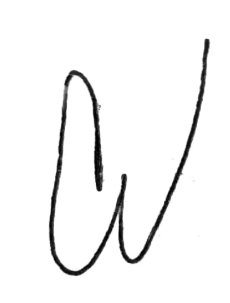
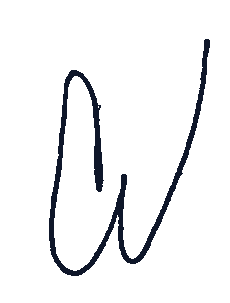
feat: firma manuscrita realista de Carlos Vega sobre linea en ODC sin etiquetas digitales

Changed region(s): [[0.213, 0.1188, 0.913, 0.9208]]

diff --git a/src/OrdenesCompra.jsx b/src/OrdenesCompra.jsx
@@ -2102,13 +2102,42 @@ const OrdenesCompra = ({ currentUser }) => {
     });
   };
 
-  // Cargar Imagen de Firma Digital Carlos Vega
+  // Cargar Imagen de Firma Carlos Vega con transparencia garantizada
   const cargarImagenFirmaCarlos = () => {
     return new Promise((resolve) => {
       const img = new Image();
       img.crossOrigin = "Anonymous";
       img.src = '/firma_carlos_vega.png';
-      img.onload = () => resolve(img);
+      img.onload = () => {
+        try {
+          const canvas = document.createElement('canvas');
+          canvas.width = img.naturalWidth || img.width;
+          canvas.height = img.naturalHeight || img.height;
+          const ctx = canvas.getContext('2d');
+          ctx.drawImage(img, 0, 0);
+          const imgData = ctx.getImageData(0, 0, canvas.width, canvas.height);
+          const data = imgData.data;
+          for (let i = 0; i < data.length; i += 4) {
+            const r = data[i];
+            const g = data[i + 1];
+            const b = data[i + 2];
+            if (r > 200 && g > 200 && b > 200) {
+              data[i + 3] = 0;
+            } else if (data[i + 3] > 0) {
+              data[i] = 15;
+              data[i + 1] = 23;
+              data[i + 2] = 42;
+            }
+          }
+          ctx.putImageData(imgData, 0, 0);
+          const transImg = new Image();
+          transImg.src = canvas.toDataURL('image/png');
+          transImg.onload = () => resolve(transImg);
+          transImg.onerror = () => resolve(img);
+        } catch {
+          resolve(img);
+        }
+      };
       img.onerror = () => resolve(null);
     });
   };
@@ -2463,69 +2492,55 @@ const OrdenesCompra = ({ currentUser }) => {
         doc.text(compradorNombre, marginX + sigW / 2, sigY + 15.8, { align: 'center' });
 
         // 2. Revisado y avalado por Ricardo Herrera
+        doc.setDrawColor(30, 58, 138);
         doc.rect(marginX + sigW, sigY, sigW, sigH);
         doc.setFont("helvetica", "bold");
         doc.setFontSize(7.2);
+        doc.setTextColor(30, 58, 138);
         doc.text("Revisado y avalado por (nombre y firma)", marginX + sigW + sigW / 2, sigY + 3.2, { align: 'center' });
         doc.setFont("helvetica", "normal");
         doc.setFontSize(6.2);
+        doc.setTextColor(71, 85, 105);
         doc.text("Gerente de Compras", marginX + sigW + sigW / 2, sigY + 6.0, { align: 'center' });
-
-        if (odcSeleccionada.ricardo_firma_digital_activa) {
-          doc.setFillColor(240, 253, 244);
-          doc.setDrawColor(22, 101, 52);
-          doc.roundedRect(marginX + sigW + 3, sigY + 7.5, sigW - 6, 9.2, 1, 1, 'FD');
-          doc.setFont("helvetica", "bold");
-          doc.setFontSize(5.6);
-          doc.setTextColor(4, 120, 87);
-          doc.text("AVALADO DIGITALMENTE", marginX + sigW + sigW / 2, sigY + 11.0, { align: 'center' });
-          doc.setFontSize(5.2);
-          doc.text("Ricardo Herrera (Gerente de Compras)", marginX + sigW + sigW / 2, sigY + 14.8, { align: 'center' });
-        } else {
-          doc.line(marginX + sigW + 6, sigY + 12.0, marginX + sigW * 2 - 6, sigY + 12.0);
-          doc.setFontSize(6.2);
-          doc.text("Ricardo Herrera (Gerente de Compras)", marginX + sigW + sigW / 2, sigY + 15.8, { align: 'center' });
-        }
+        doc.setDrawColor(0, 0, 0);
+        doc.line(marginX + sigW + 6, sigY + 12.0, marginX + sigW * 2 - 6, sigY + 12.0);
+        doc.setFont("helvetica", "bold");
+        doc.setFontSize(6.2);
+        doc.setTextColor(0, 0, 0);
+        doc.text("Ricardo Herrera (Gerente de Compras)", marginX + sigW + sigW / 2, sigY + 15.8, { align: 'center' });
 
         // 3. Autorizado por Carlos Vega
+        doc.setDrawColor(30, 58, 138);
         doc.rect(marginX + sigW * 2, sigY, sigW, sigH);
         doc.setFont("helvetica", "bold");
         doc.setFontSize(7.2);
+        doc.setTextColor(30, 58, 138);
         doc.text("Autorizado por (nombre y firma)", marginX + sigW * 2 + sigW / 2, sigY + 3.2, { align: 'center' });
         doc.setFont("helvetica", "normal");
         doc.setFontSize(6.2);
+        doc.setTextColor(71, 85, 105);
         doc.text("Personal Autorizado", marginX + sigW * 2 + sigW / 2, sigY + 6.0, { align: 'center' });
 
-        if (odcSeleccionada.carlos_firma_digital_activa) {
-          doc.setFillColor(240, 253, 244);
-          doc.setDrawColor(22, 101, 52);
-          doc.roundedRect(marginX + sigW * 2 + 3, sigY + 7.2, sigW - 6, 9.8, 1, 1, 'FD');
-          
-          if (firmaCarlosImg) {
-            try {
-              doc.addImage(firmaCarlosImg, 'PNG', marginX + sigW * 2 + (sigW / 2) - 3.5, sigY + 7.4, 7.0, 5.0);
-            } catch (errImg) {
-              console.warn("No se pudo insertar la imagen de firma en PDF:", errImg);
-            }
-            doc.setFont("helvetica", "bold");
-            doc.setFontSize(5.0);
-            doc.setTextColor(4, 120, 87);
-            doc.text("FIRMADO DIGITALMENTE", marginX + sigW * 2 + sigW / 2, sigY + 13.6, { align: 'center' });
-            doc.setFontSize(4.8);
-            doc.text("Carlos Vega (Gerencia General)", marginX + sigW * 2 + sigW / 2, sigY + 16.0, { align: 'center' });
-          } else {
-            doc.setFont("helvetica", "bold");
-            doc.setFontSize(5.6);
-            doc.setTextColor(4, 120, 87);
-            doc.text("FIRMADO DIGITALMENTE", marginX + sigW * 2 + sigW / 2, sigY + 11.0, { align: 'center' });
-            doc.setFontSize(5.2);
-            doc.text("Carlos Vega (Gerencia General)", marginX + sigW * 2 + sigW / 2, sigY + 14.8, { align: 'center' });
+        // Estampar trazo de firma manuscrita sobre la línea si está autorizada
+        if (odcSeleccionada.carlos_firma_digital_activa && firmaCarlosImg) {
+          try {
+            const sigImgW = 9.2;
+            const sigImgH = 12.5;
+            const sigImgX = marginX + sigW * 2 + (sigW / 2) - (sigImgW / 2);
+            const sigImgY = sigY + 12.0 - sigImgH + 1.8;
+            doc.addImage(firmaCarlosImg, 'PNG', sigImgX, sigImgY, sigImgW, sigImgH);
+          } catch (errImg) {
+            console.warn("No se pudo insertar la firma de Carlos en PDF:", errImg);
           }
-        } else {
-          doc.line(marginX + sigW * 2 + 6, sigY + 12.0, marginX + usableWidth - 6, sigY + 12.0);
-          doc.setFontSize(6.2);
-          doc.text("Carlos Vega (Gerencia General)", marginX + sigW * 2 + sigW / 2, sigY + 15.8, { align: 'center' });
         }
+
+        // Línea horizontal tradicional de firma
+        doc.setDrawColor(0, 0, 0);
+        doc.line(marginX + sigW * 2 + 6, sigY + 12.0, marginX + usableWidth - 6, sigY + 12.0);
+        doc.setFont("helvetica", "bold");
+        doc.setFontSize(6.2);
+        doc.setTextColor(0, 0, 0);
+        doc.text("Carlos Vega (Gerencia General)", marginX + sigW * 2 + sigW / 2, sigY + 15.8, { align: 'center' });
 
         // Texto pie a la derecha: "Verificado datos de compra por proveedor"
         doc.setFont("helvetica", "bold");
@@ -3648,10 +3663,10 @@ const OrdenesCompra = ({ currentUser }) => {
               <div style={{ backgroundColor: '#f0fdf4', border: '1px solid #bbf7d0', borderRadius: '16px', padding: '16px 20px', marginBottom: '20px', display: 'flex', justifyContent: 'space-between', alignItems: 'center', boxShadow: '0 2px 6px rgba(22, 101, 52, 0.06)' }}>
                 <div>
                   <span style={{ fontWeight: '800', color: '#166534', fontSize: '0.85rem', display: 'flex', alignItems: 'center', gap: '6px' }}>
-                    <ShieldCheck size={18} /> Gobernanza de Firma Remota - Carlos Vega (Gerencia General)
+                    <ShieldCheck size={18} /> Firma de Aprobación - Carlos Vega (Gerencia General)
                   </span>
                   <span style={{ fontSize: '0.75rem', color: '#15803d', display: 'block', marginTop: '2px' }}>
-                    Al activar esta opción se estampará automáticamente tu firma digital y leyenda de verificación en el PDF oficial F-ADM-01-2.
+                    Al activar esta opción se estampará automáticamente la firma autorizada en la Orden de Compra y PDF oficial F-ADM-01-2.
                   </span>
                 </div>
                 <label style={{ display: 'flex', alignItems: 'center', gap: '10px', cursor: 'pointer', fontWeight: '700', fontSize: '0.85rem', color: '#14532d' }}>
@@ -3662,7 +3677,7 @@ const OrdenesCompra = ({ currentUser }) => {
                     disabled={guardandoFirmaCarlos}
                     onChange={(e) => toggleFirmaDigitalCarlos(e.target.checked)}
                   />
-                  Firma Digital Activa
+                  Firma Activa
                 </label>
               </div>
             )}
@@ -3952,20 +3967,9 @@ const OrdenesCompra = ({ currentUser }) => {
                     <div className="f-adm-sig-header-compact">Revisado y avalado por (nombre y firma)</div>
                     <div className="f-adm-sig-sub-compact">Gerente de Compras</div>
                   </div>
-                  {odcSeleccionada.ricardo_firma_digital_activa ? (
-                    <div className="f-adm-digital-seal-img1" style={{ padding: '4px' }}>
-                      <div style={{ color: '#047857', fontWeight: '800', fontSize: '0.62rem', display: 'flex', alignItems: 'center', justifyContent: 'center', gap: '3px' }}>
-                        <ShieldCheck size={11} color="#047857" /> AVALADO DIGITALMENTE
-                      </div>
-                      <div style={{ color: '#0f766e', fontWeight: '700', fontSize: '0.60rem' }}>
-                        Ricardo Herrera (Gerente de Compras)
-                      </div>
-                    </div>
-                  ) : (
-                    <div className="f-adm-sig-name-compact">
-                      Ricardo Herrera (Gerente de Compras)
-                    </div>
-                  )}
+                  <div className="f-adm-sig-name-compact">
+                    Ricardo Herrera (Gerente de Compras)
+                  </div>
                 </div>
 
                 {/* 3. Carlos Vega - Gerente General */}
@@ -3974,25 +3978,16 @@ const OrdenesCompra = ({ currentUser }) => {
                     <div className="f-adm-sig-header-compact">Autorizado por (nombre y firma)</div>
                     <div className="f-adm-sig-sub-compact">Personal Autorizado</div>
                   </div>
-                  {odcSeleccionada.carlos_firma_digital_activa ? (
-                    <div className="f-adm-digital-seal-img1">
+                  <div className="f-adm-sig-name-compact">
+                    {odcSeleccionada.carlos_firma_digital_activa && (
                       <img 
                         src="/firma_carlos_vega.png" 
                         alt="Firma Carlos Vega" 
-                        className="f-adm-signature-graphic" 
+                        className="f-adm-signature-overlay" 
                       />
-                      <div style={{ color: '#047857', fontWeight: '800', fontSize: '0.62rem', display: 'flex', alignItems: 'center', justifyContent: 'center', gap: '3px' }}>
-                        <ShieldCheck size={11} color="#047857" /> FIRMADO DIGITALMENTE
-                      </div>
-                      <div style={{ color: '#0f766e', fontWeight: '700', fontSize: '0.60rem' }}>
-                        Carlos Vega (Gerencia General)
-                      </div>
-                    </div>
-                  ) : (
-                    <div className="f-adm-sig-name-compact">
-                      Carlos Vega (Gerencia General)
-                    </div>
-                  )}
+                    )}
+                    Carlos Vega (Gerencia General)
+                  </div>
                 </div>
 
               </div>

diff --git a/src/OrdenesCompra.css b/src/OrdenesCompra.css
@@ -405,29 +405,23 @@
   font-size: 0.76rem;
   font-weight: 700;
   color: #000;
-  border-top: 1px solid #000;
-  padding-top: 2px;
-  margin-top: 18px;
+  border-top: 1.2px solid #000;
+  padding-top: 3px;
+  margin-top: 28px;
+  position: relative;
+  line-height: 1.2;
 }
 
-.f-adm-digital-seal-img1 {
-  background-color: #f0fdf4;
-  border: 1px solid #166534;
-  border-radius: 6px;
-  padding: 4px 6px;
-  display: flex;
-  flex-direction: column;
-  align-items: center;
-  justify-content: center;
-  margin-top: 4px;
-}
-
-.f-adm-signature-graphic {
-  max-height: 38px;
-  max-width: 100px;
+.f-adm-signature-overlay {
+  position: absolute;
+  bottom: 6px;
+  left: 50%;
+  transform: translateX(-50%);
+  height: 54px;
+  max-width: 120px;
   object-fit: contain;
-  margin: -4px 0 -2px 0;
   pointer-events: none;
+  z-index: 2;
 }
 
 .f-adm-verified-prov-note {
